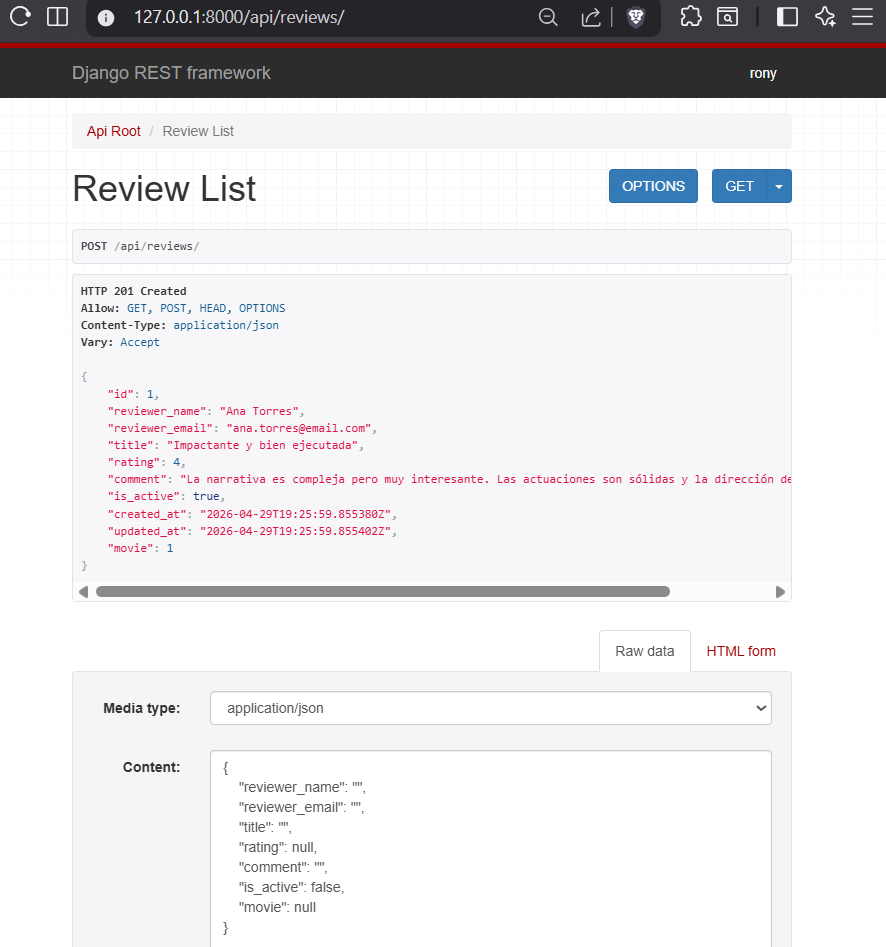
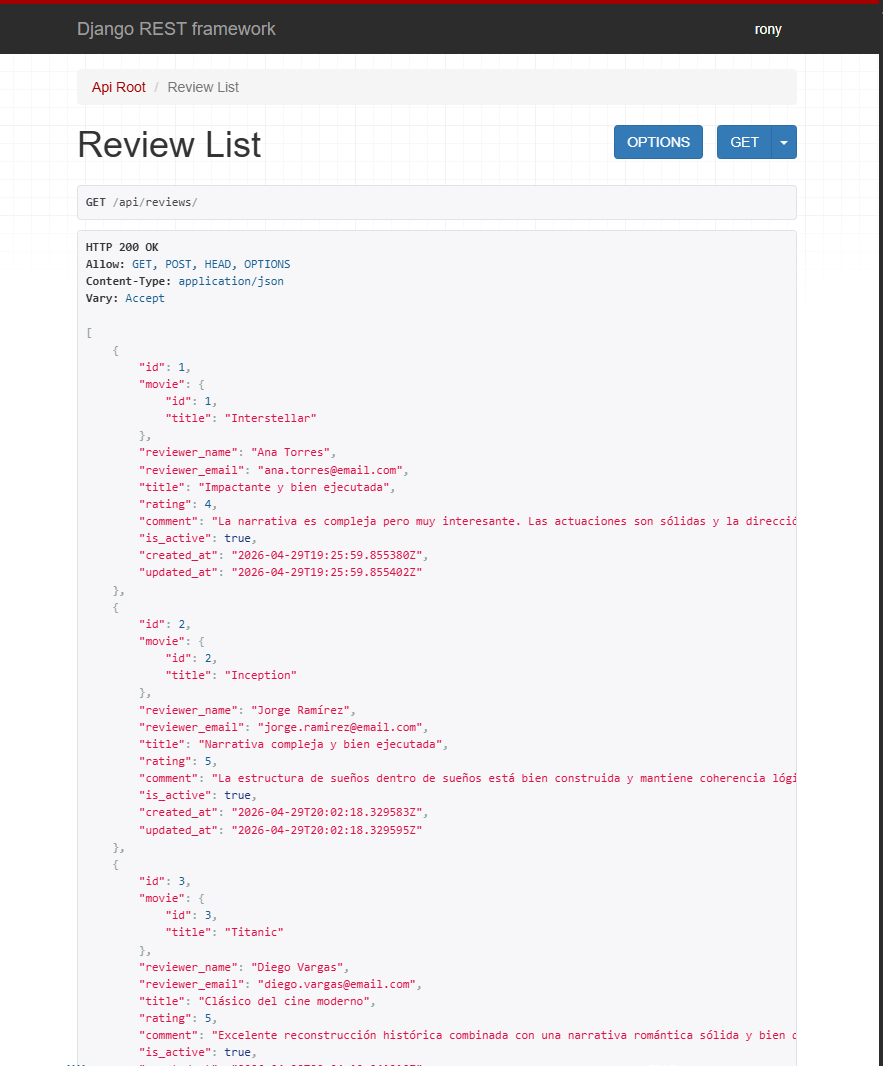
Mejoramineto del reviews relacion movies_id y modificacion README

diff --git a/reviews/serializers.py b/reviews/serializers.py
@@ -1,9 +1,26 @@
 from rest_framework import serializers
 from .models import Review
+from movies.models import Movie  # IMPORTANTE
+
+# NUEVO → serializer simple de movie (lectura)
+class MovieSimpleSerializer(serializers.ModelSerializer):
+    class Meta:
+        model = Movie
+        fields = ['id', 'title']  # IMPORTANTE
+
 
 class ReviewSerializer(serializers.ModelSerializer):
 
-    # NUEVO
+    # NUEVO → lectura (objeto)
+    movie = MovieSimpleSerializer(read_only=True)
+
+    # NUEVO → escritura (ID)
+    movie_id = serializers.PrimaryKeyRelatedField(
+        queryset=Movie.objects.all(),
+        source='movie',
+        write_only=True
+    )
+
     def validate_rating(self, value):
         if value < 1 or value > 5:
             raise serializers.ValidationError("El rating debe estar entre 1 y 5")

diff --git a/README.md b/README.md
@@ -52,6 +52,8 @@ Las evidencias del desarrollo se encuentran en la carpeta:
 
 ![Evidencia 4](docs/App-reviews-admin-reviews.png)
 
+![Evidencia 4](docs/App-relacion.png)
+
 
 
 
